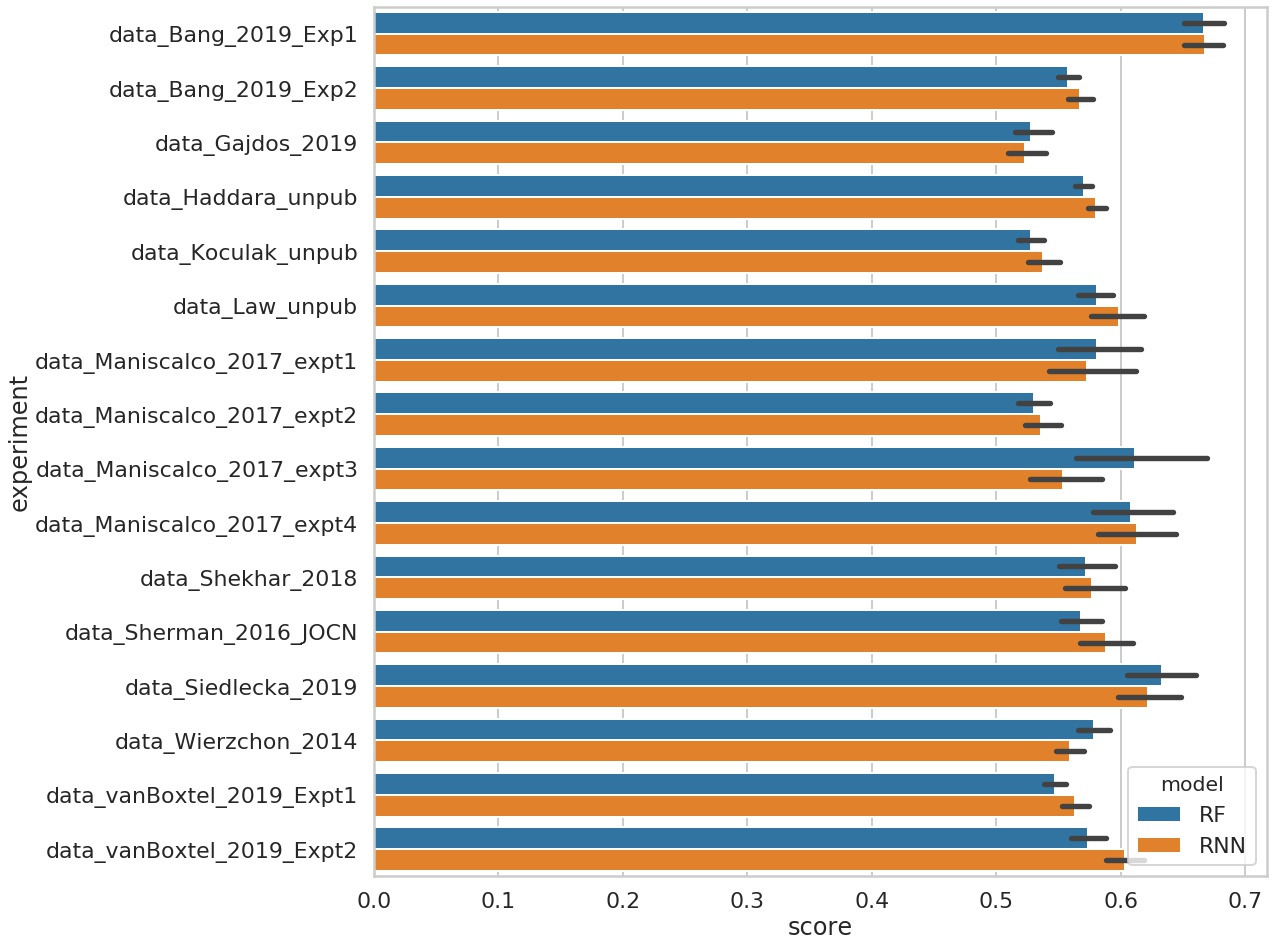
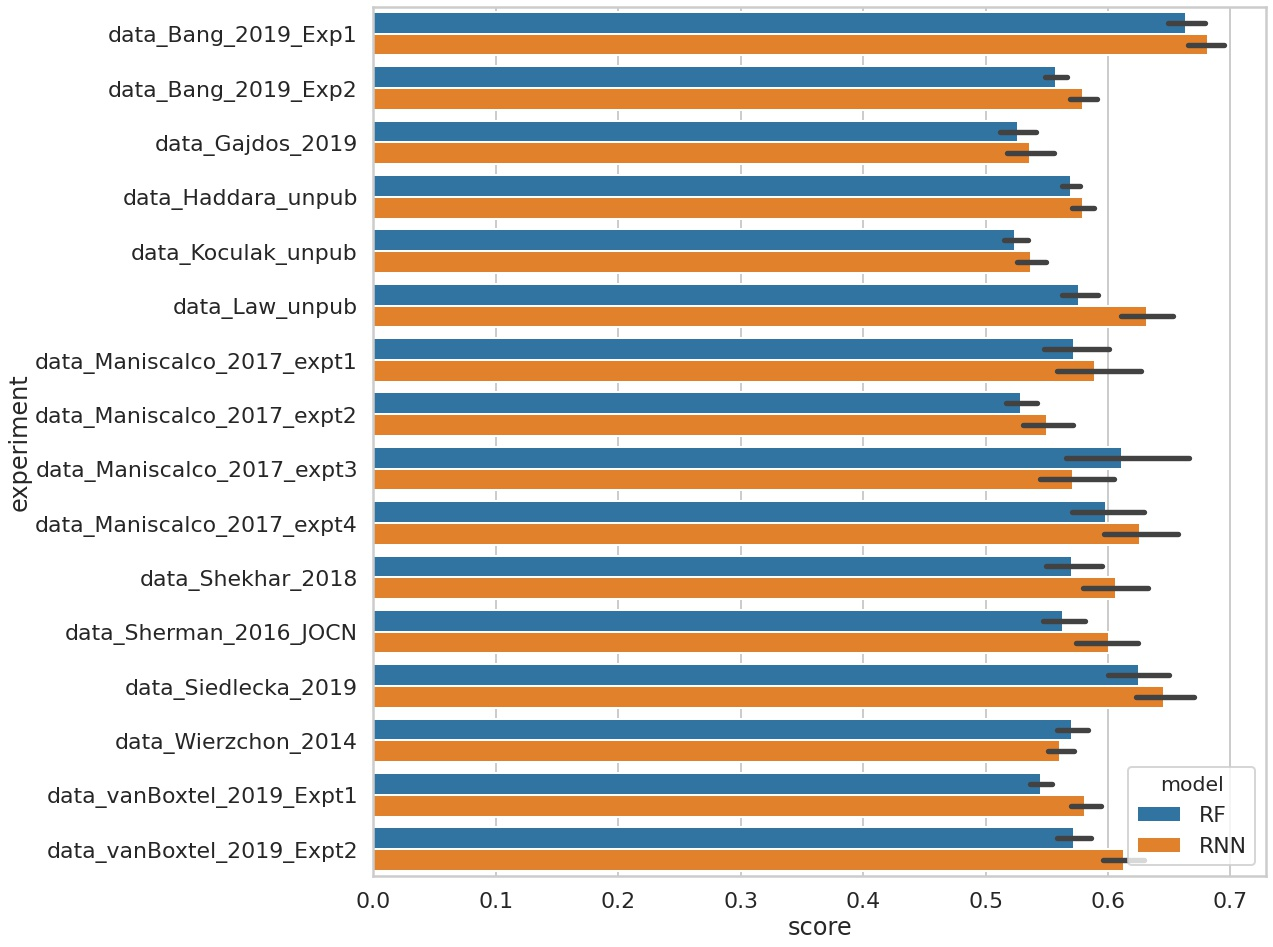
update figures

diff --git a/scripts/plot LOO.py b/scripts/plot LOO.py
@@ -16,7 +16,7 @@ from matplotlib import pyplot as plt
 sns.set_style('whitegrid')
 sns.set_context('poster')
 
-experiment = 'confidence' # confidence or adequacy
+experiment = 'adequacy' # confidence or adequacy
 working_dir = f'../results/{experiment}/LOO/'
 figure_dir = f'../figures/{experiment}/LOO_compare_RNN_RF/'
 if not os.path.exists(figure_dir):
